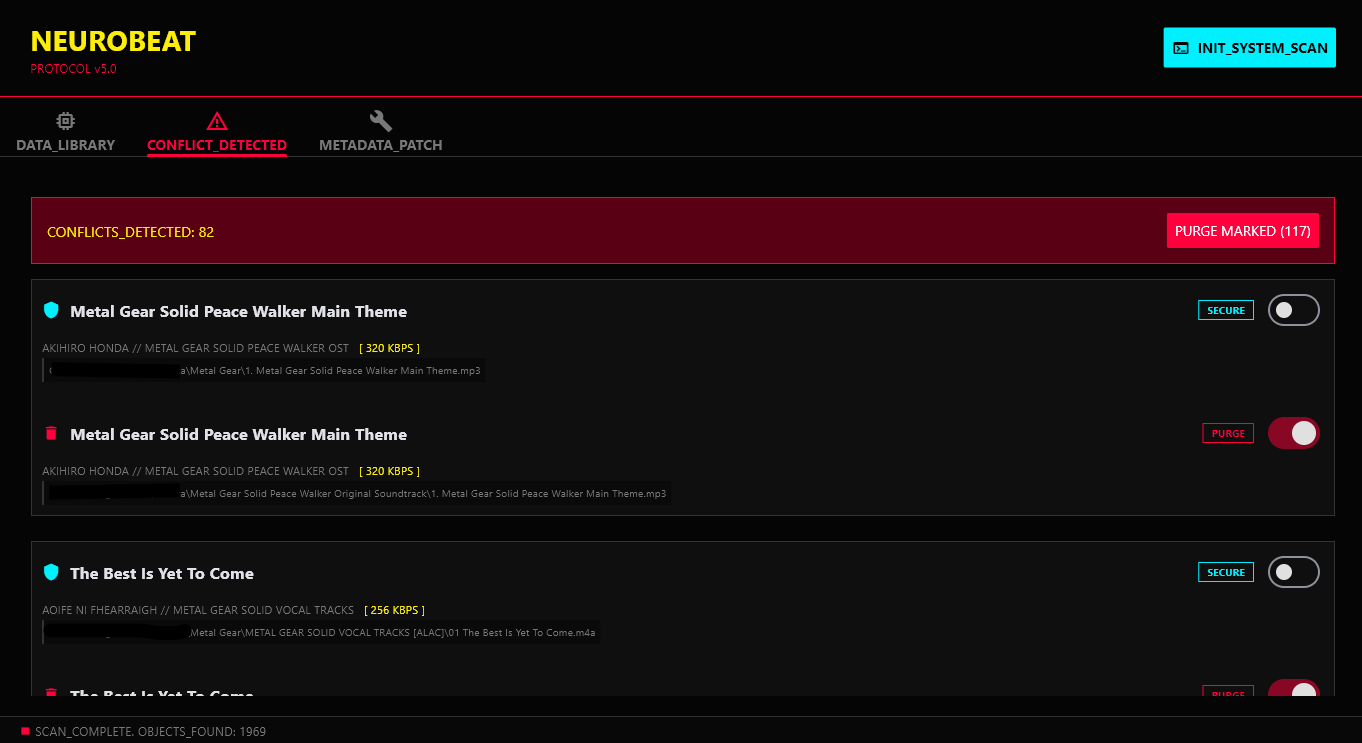
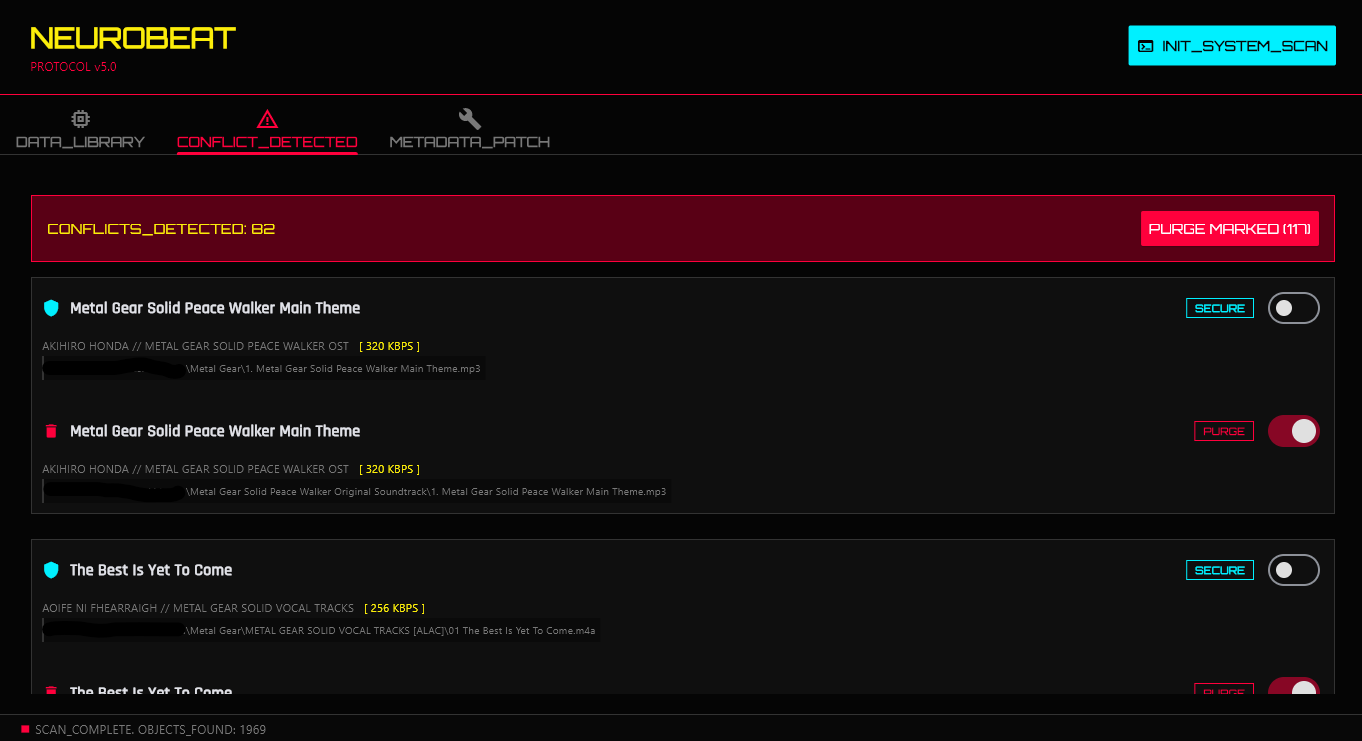
Initial commit: NeuroBeat Protocol v5.0 release

diff --git a/main_flet.py b/main_flet.py
@@ -35,9 +35,9 @@ class MusicAppFlet:
         
         # Cargar Fuentes (Google Fonts)
         self.page.fonts = {
-            "CyberHeader": "Orbitron",
-            "CyberMono": "Roboto Mono",
-            "CyberBody": "Rajdhani"
+            "CyberHeader": "https://github.com/google/fonts/raw/main/ofl/orbitron/Orbitron%5Bwght%5D.ttf",
+            "CyberMono": "https://github.com/google/fonts/raw/main/apache/robotomono/RobotoMono%5Bwght%5D.ttf",
+            "CyberBody": "https://github.com/google/fonts/raw/main/ofl/rajdhani/Rajdhani-Medium.ttf"
         }
         
         # Tema Global
